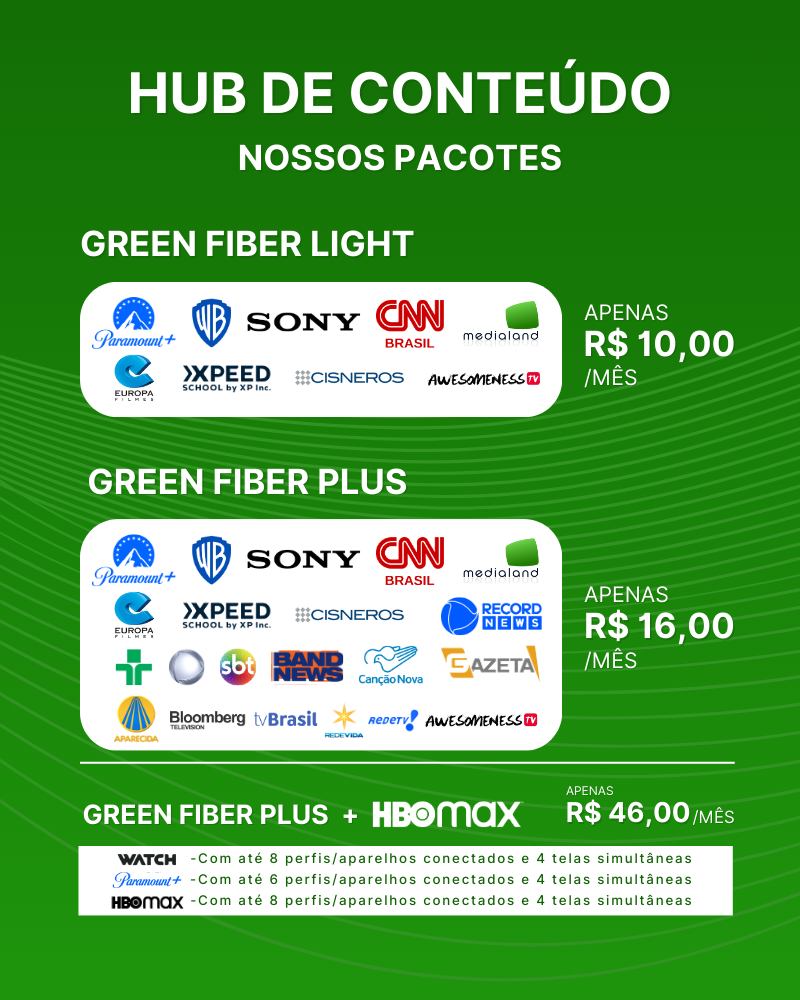
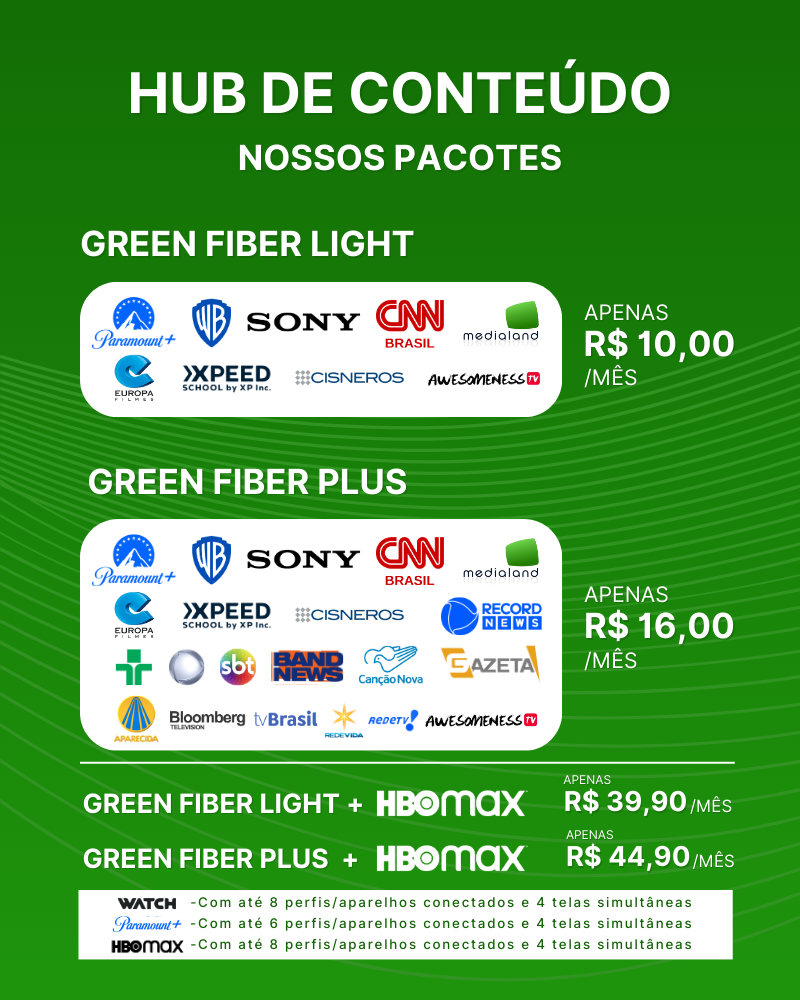
planos atualizados

Changed region(s): [[0.0938, 0.775, 0.9375, 0.961]]

diff --git a/planos.html b/planos.html
@@ -69,7 +69,8 @@ class="w-16 mt-5 border-[1px] rounded-lg border-gray-600 border-solid mx-auto"
                 </div>
                 <h3 class="text-[11px] w-full text-center pt-4">SEM FIDELIDADE | SEM TAXA DE INSTALAÇÃO</h3>
                 
-                <h3 class="ind text-sm w-full text-center font-black text-green-800 pt-4 items-center tracking-[.01em]">Deseja assinar a GreenFiber TV? <a id="modalBtn" class="bg-green-700 text-white px-1 py-0 rounded-full text-xs cursor-pointer">?</a></h3>
+                <h3 class="ind text-sm w-full text-center font-black text-green-800 pt-4 items-center tracking-[.01em]">Deseja assinar a GreenFiber TV? </h3>
+                <a id="modalBtn" class="hover:scale-105 duration-300 transition-ease bg-green-700 text-white text-center px-2 py-2 rounded-sm text-md cursor-pointer my-2">Conheça nossos pacotes</a>
                 <div class="ind flex items-center w-[252px] pt-2">
                     <div class="select-menu500">
                         <div class="select-btn500 w-[252px] bg-white flex justify-between items-center p-3 rounded-md shadow-md cursor-pointer">
@@ -79,6 +80,7 @@ class="w-16 mt-5 border-[1px] rounded-lg border-gray-600 border-solid mx-auto"
                         <ul class="hidden options500 relative p-3 text-xs mt-[10px] rounded-md bg-white shadow-md">
                             <li class="option500 flex p-2 hover:bg-gray-200 cursor-pointer rounded-md"><span class="option-txt">GreenFiber TV Light (+R$14,90)</span></li>
                             <li class="option500 flex p-2 hover:bg-gray-200 cursor-pointer rounded-md"><span class="option-txt">GreenFiber TV Plus (+R$21,90)</span></li>
+                            <li class="option500 flex p-2 hover:bg-gray-200 cursor-pointer rounded-md"><span class="option-txt">GreenFiber TV Light + HBOMax (+R$44,90)</span></li>
                             <li class="option500 flex p-2 hover:bg-gray-200 cursor-pointer rounded-md"><span class="option-txt">GreenFiber TV Plus + HBOMax (+R$50,90)</span></li>
                             <li class="option500 flex p-2 hover:bg-gray-200 cursor-pointer rounded-md"><span class="option-txt">Não tenho interesse</span></li>
                         </ul>
@@ -107,7 +109,8 @@ class="w-16 mt-5 border-[1px] rounded-lg border-gray-600 border-solid mx-auto"
                 </div>
                 <h3 class="text-[11px] w-full text-center pt-4">SEM FIDELIDADE | SEM TAXA DE INSTALAÇÃO</h3>
                 
-                <h3 class="ind text-sm w-full text-center font-black text-green-800 pt-4 items-center tracking-[.01em]">Deseja assinar a GreenFiber TV? <a id="modalBtn600" class="bg-green-700 text-white px-1 py-0 rounded-full text-xs cursor-pointer">?</a></h3>
+                <h3 class="ind text-sm w-full text-center font-black text-green-800 pt-4 items-center tracking-[.01em]">Deseja assinar a GreenFiber TV? </h3>
+                <a id="modalBtn600" class="hover:scale-105 duration-300 transition-ease bg-green-700 text-white text-center px-2 py-2 rounded-sm text-md cursor-pointer my-2">Conheça nossos pacotes</a>
                 <div class="ind flex items-center w-[252px] pt-2">
                     <div class="select-menu600">
                         <div class="select-btn600 w-[252px] bg-white flex justify-between items-center p-3 rounded-md shadow-md cursor-pointer">
@@ -117,7 +120,8 @@ class="w-16 mt-5 border-[1px] rounded-lg border-gray-600 border-solid mx-auto"
                         <ul class="hidden options600 relative p-3 text-xs mt-[10px] rounded-md bg-white shadow-md">
                             <li class="option600 flex p-2 hover:bg-gray-200 cursor-pointer rounded-md"><span class="option-txt">GreenFiber TV Light (+R$10,00)</span></li>
                             <li class="option600 flex p-2 hover:bg-gray-200 cursor-pointer rounded-md"><span class="option-txt">GreenFiber TV Plus (+R$16,00)</span></li>
-                            <li class="option600 flex p-2 hover:bg-gray-200 cursor-pointer rounded-md"><span class="option-txt">GreenFiber TV Plus + HBOMax (+R$46,00)</span></li>
+                            <li class="option600 flex p-2 hover:bg-gray-200 cursor-pointer rounded-md"><span class="option-txt">GreenFiber TV Light + HBOMax (+R$39,90)</span></li>
+                            <li class="option600 flex p-2 hover:bg-gray-200 cursor-pointer rounded-md"><span class="option-txt">GreenFiber TV Plus + HBOMax (+R$44,90)</span></li>
                             <li class="option600 flex p-2 hover:bg-gray-200 cursor-pointer rounded-md"><span class="option-txt">Não tenho interesse</span></li>
                         </ul>
                     </div>
@@ -147,7 +151,8 @@ class="w-16 mt-5 border-[1px] rounded-lg border-gray-600 border-solid mx-auto"
                 </div>
                 <h3 class="text-[11px] w-full text-center pt-4">SEM FIDELIDADE | SEM TAXA DE INSTALAÇÃO</h3>
                 
-                <h3 class="ind text-sm w-full text-center font-black text-green-800 pt-4 items-center tracking-[.01em]">Deseja assinar a GreenFiber TV? <a id="modalBtn800" class="bg-green-700 text-white px-1 py-0 rounded-full text-xs cursor-pointer">?</a></h3>
+                <h3 class="ind text-sm w-full text-center font-black text-green-800 pt-4 items-center tracking-[.01em]">Deseja assinar a GreenFiber TV? </h3>
+                <a id="modalBtn800" class="hover:scale-105 duration-300 transition-ease bg-green-700 text-white text-center px-2 py-2 rounded-sm text-md cursor-pointer my-2">Conheça nossos pacotes</a>
                 <div class="ind flex items-center w-[252px] pt-2">
                     <div class="select-menu800">
                         <div class="select-btn800 w-[252px] bg-white flex justify-between items-center p-3 rounded-md shadow-md cursor-pointer">
@@ -157,7 +162,8 @@ class="w-16 mt-5 border-[1px] rounded-lg border-gray-600 border-solid mx-auto"
                         <ul class="hidden options800 relative p-3 text-xs mt-[10px] rounded-md bg-white shadow-md">
                             <li class="option800 flex p-2 hover:bg-gray-200 cursor-pointer rounded-md"><span class="option-txt">GreenFiber TV Light (+R$10,00)</span></li>
                             <li class="option800 flex p-2 hover:bg-gray-200 cursor-pointer rounded-md"><span class="option-txt">GreenFiber TV Plus (+R$16,00)</span></li>
-                            <li class="option800 flex p-2 hover:bg-gray-200 cursor-pointer rounded-md"><span class="option-txt">GreenFiber TV Plus + HBOMax (+R$46,00)</span></li>
+                            <li class="option800 flex p-2 hover:bg-gray-200 cursor-pointer rounded-md"><span class="option-txt">GreenFiber TV Plus + HBOMax (+R$39,90)</span></li>
+                            <li class="option800 flex p-2 hover:bg-gray-200 cursor-pointer rounded-md"><span class="option-txt">GreenFiber TV Plus + HBOMax (+R$44,90)</span></li>
                             <li class="option800 flex p-2 hover:bg-gray-200 cursor-pointer rounded-md"><span class="option-txt">Não tenho interesse</span></li>
                         </ul>
                     </div>

diff --git a/js/planos.js b/js/planos.js
@@ -28,6 +28,11 @@ options500.forEach(option => {
                 assinar500.href = "https://api.whatsapp.com/send/?phone=5521998629274&text=Ol%C3%A1!%20Tenho%20interesse%20em%20contratar%20o%20Combo%20500%20MEGA%20%2B%20%20%20GreenFiber%20TV%20Plus!"
                 break
 
+            case 'GreenFiber TV Light + HBOMax (+R$44,90)':
+                price500.innerText = `R$ ${(+99.99 + +44.90).toFixed(2).toString().replace('.',',')}`
+                assinar500.href = "https://api.whatsapp.com/send/?phone=5521998629274&text=Ol%C3%A1!%20Tenho%20interesse%20em%20contratar%20o%20Combo%20500%20MEGA%20%2B%20%20%20GreenFiber%20TV%20Plus%20%20%2B%20HBO%20Max!"
+                break
+
             case 'GreenFiber TV Plus + HBOMax (+R$50,90)':
                 price500.innerText = `R$ ${(+99.99 + +50.90).toFixed(2).toString().replace('.',',')}`
                 assinar500.href = "https://api.whatsapp.com/send/?phone=5521998629274&text=Ol%C3%A1!%20Tenho%20interesse%20em%20contratar%20o%20Combo%20500%20MEGA%20%2B%20%20%20GreenFiber%20TV%20Plus%20%20%2B%20HBO%20Max!"
@@ -76,8 +81,13 @@ options600.forEach(option => {
                 assinar600.href = "https://api.whatsapp.com/send/?phone=5521998629274&text=Ol%C3%A1!%20Tenho%20interesse%20em%20contratar%20o%20Combo%20600%20MEGA%20%2B%20%20%20GreenFiber%20TV%20Plus!"
                 break
 
-            case 'GreenFiber TV Plus + HBOMax (+R$46,00)':
-                price600.innerText = `R$ ${(+124.99 + +46).toFixed(2).toString().replace('.',',')}`
+            case 'GreenFiber TV Light + HBOMax (+R$39,90)':
+                price600.innerText = `R$ ${(+124.99 + +39.90).toFixed(2).toString().replace('.',',')}`
+                assinar600.href = "https://api.whatsapp.com/send/?phone=5521998629274&text=Ol%C3%A1!%20Tenho%20interesse%20em%20contratar%20o%20Combo%20600%20MEGA%20%2B%20%20%20GreenFiber%20TV%20Plus%20%20%2B%20HBO%20Max!"
+                break
+
+            case 'GreenFiber TV Plus + HBOMax (+R$44,90)':
+                price600.innerText = `R$ ${(+124.99 + +44.90).toFixed(2).toString().replace('.',',')}`
                 assinar600.href = "https://api.whatsapp.com/send/?phone=5521998629274&text=Ol%C3%A1!%20Tenho%20interesse%20em%20contratar%20o%20Combo%20600%20MEGA%20%2B%20%20%20GreenFiber%20TV%20Plus%20%20%2B%20HBO%20Max!"
                 break
 
@@ -124,8 +134,13 @@ options800.forEach(option => {
                 assinar800.href = "https://api.whatsapp.com/send/?phone=5521998629274&text=Ol%C3%A1!%20Tenho%20interesse%20em%20contratar%20o%20Combo%20800%20MEGA%20%2B%20%20%20GreenFiber%20TV%20Plus!"
                 break
 
-            case 'GreenFiber TV Plus + HBOMax (+R$46,00)':
-                price800.innerText = `R$ ${(+149.99 + +46).toFixed(2).toString().replace('.',',')}`
+            case 'GreenFiber TV Plus + HBOMax (+R$39,90)':
+                price800.innerText = `R$ ${(+149.99 + +39.90).toFixed(2).toString().replace('.',',')}`
+                assinar800.href = "https://api.whatsapp.com/send/?phone=5521998629274&text=Ol%C3%A1!%20Tenho%20interesse%20em%20contratar%20o%20Combo%20800%20MEGA%20%2B%20%20%20GreenFiber%20TV%20Plus%20%20%2B%20HBO%20Max!"
+                break
+
+            case 'GreenFiber TV Plus + HBOMax (+R$44,90)':
+                price800.innerText = `R$ ${(+149.99 + +44.90).toFixed(2).toString().replace('.',',')}`
                 assinar800.href = "https://api.whatsapp.com/send/?phone=5521998629274&text=Ol%C3%A1!%20Tenho%20interesse%20em%20contratar%20o%20Combo%20800%20MEGA%20%2B%20%20%20GreenFiber%20TV%20Plus%20%20%2B%20HBO%20Max!"
                 break
 

diff --git a/planosMax.html b/planosMax.html
@@ -44,10 +44,35 @@ class="w-16 mt-5 border-[1px] rounded-lg border-gray-600 border-solid mx-auto"
 ></h2>
     
                 <div class="flex gap-10 mt-10 flex-col md:flex-row">
-
+                    <div class="flex min-h-[428px] w-[320px] flex-col rounded-3xl p-8 bg-gray-100 border-2 border-gray-300 static">
+                        <h2 class="mb-5 text-md font-medium text-center bg-green-700 text-white p-1 rounded-full">
+                            GREEN FIBER MAX BASIC
+                        </h2>
+                        <h1 class="text-5xl text-center font-bold text-green-800 -tracking-[.15em]">500MEGA</h1>
+                        <h2 id="price600" class="mb-5 text-4xl font-medium text-center ">
+                            R$ 135,99
+                            <p class="text-xs">/mês no boleto</p>
+                        </h2>
+                        <ul>
+                            <li><p class="flex items-center gap-2 text-sm py-1"><img src="img/check.png" class="w-4 h-4" alt="">Internet 100% Fibra Óptica 600mb</p></li>
+                            <li><p class="flex items-center gap-2 text-sm py-1"><img src="img/check.png" class="w-4 h-4" alt="">2 pontos Wi-Fi 5</p></li>
+                            <li><p class="flex items-center gap-2 text-sm py-1"><img src="img/check.png" class="w-4 h-4" alt="">Green Connected Home</p></li>
+                            <li><p class="flex items-center gap-2 text-sm py-1"><img src="img/check.png" class="w-4 h-4" alt="">Paramount+ e Watch</p></li>
+                        </ul>
+                        <h3 class="text-[11px] w-full text-center pt-4">SEM FIDELIDADE | SEM TAXA DE INSTALAÇÃO</h3>
+                        <hr 
+                        class="w-32 mt-5 border-[1px] rounded-lg border-gray-600 border-solid mx-auto"
+                        >
+                        <p class="text-xs mt-3"><strong>Green Connected Home:</strong> Amplie sua cobertura com 2 pontos do Super Wi-Fi 5. Equipamentos em comodato.</p>
+                        <p class="text-xs mt-3"><strong>Paramount+ e Watch:</strong> Garanta o melhor do entretenimento com um catálogo atual e variado!</p>
+                        <p class="text-xs mt-3"><strong>Ponto adicional:</strong> +R$ 29,99/mês</p>
+                        <a id="assinar600" 
+                        href="https://api.whatsapp.com/send/?phone=5521998629274&text=Ol%C3%A1!%20Tenho%20interesse%20em%20contratar%20o%20plano%20Green%20Fiber%20Max!" 
+                        target="_blank"  class="z-50 hover:bg-green-500 p-3 my-2 bg-green-700 rounded-lg text-white text-center font-bold mt-8">ASSINE JÁ</a>
+                    </div>
              <div class="flex min-h-[428px] w-[320px] flex-col rounded-3xl p-8 bg-gray-100 border-2 border-gray-300 static">
                 <h2 class="mb-5 text-md font-medium text-center bg-green-700 text-white p-1 rounded-full">
-                    GREEN FIBER MAX
+                    GREEN FIBER MAX ADVANCED
                 </h2>
                 <h1 class="text-5xl text-center font-bold text-green-800 -tracking-[.15em]">600MEGA</h1>
                 <h2 id="price600" class="mb-5 text-4xl font-medium text-center ">
